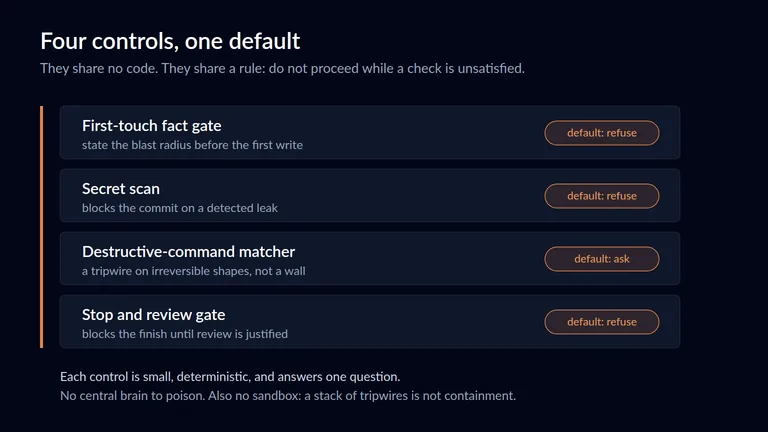
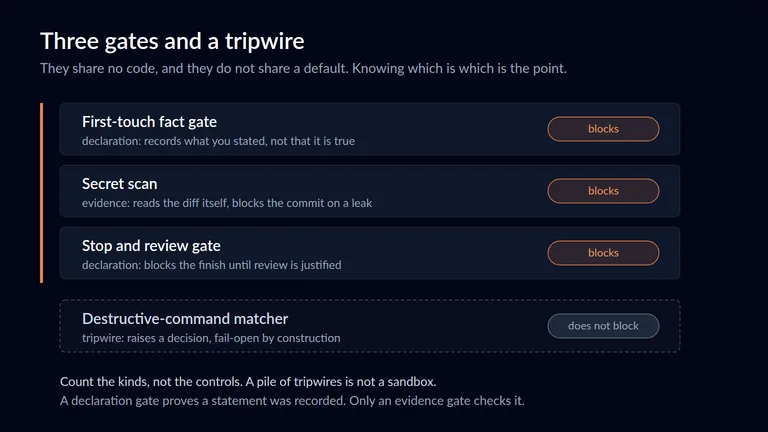
fix(guides): correct hook semantics, declaration gates, and canary scope
Second external review pass. Five findings, all valid, all verified against the canonical Claude Code hooks reference before changing anything.

Hook semantics. Previous text said only a PreToolUse hook can stop a call and that other exits fail open silently. Both wrong. A PreToolUse hook can deny two ways, exit code 2 or a clean exit carrying a structured permissionDecision of deny, and a PermissionRequest hook can deny as well. Other non-zero exits are non-blocking but NOT silent: the transcript carries a hook-error notice. Corrected, and the point sharpened, since a notice after the fact is still not a block. Now links code.claude.com/docs/en/hooks.

Declaration gates. 'No paragraph of justification changes the outcome' contradicted the opening, where the fact gate cleared precisely because a paragraph was written. Replaced with the accurate claim: the model cannot redefine the pass condition. Added the distinction this exposes, between a declaration gate that proves only that a statement was recorded and an evidence gate that independently validates it.

Stack classification. The matcher is fail-open by construction, so the claim that every control defaults to no was false. Reclassified as three required gates plus one advisory tripwire, in prose and in the fourth diagram, which now sets the tripwire apart visually.
[…]

diff --git a/constants.guides.generated.ts b/constants.guides.generated.ts
@@ -13,7 +13,7 @@ export const GUIDES: Guide[] = [
     "category": "Agent Engineering",
     "description": "The safety of an agent harness is not the list of things it can do. It is what the harness does by default when a required check cannot be satisfied. This guide builds the guardrails half of harness engineering that most write-ups name and skip: a fail-closed default, a trajectory model for when to refuse, and an honest account of what a command matcher can and cannot enforce.",
     "lead": "While I was writing this guide, my own harness refused me over and over. Not once because a command was dangerous, but because a required check had not been satisfied yet. None of those gates was a wall, and understanding why is the whole discipline.",
-    "body": "While I was writing this guide, my own harness kept refusing me.\n\nThe first refusal came when I tried to create a file. A gate intercepted the write and would not pass it until I had stated, on the record, what imported the file, what the blast radius was, what data it touched, and what the operator had actually asked for. I wrote those four facts. The retry went through. That happened on every new file the session touched, including the ones holding this guide's own research.\n\nA second gate refused to let the session end. I had pushed a branch and wanted to stop; the stop was blocked until I either ran the review pipeline or stated in writing why this change did not need it. A third, quieter one flagged that I had hidden both output streams on a command whose result I was branching on, which collapses \"the probe found nothing\" and \"the probe broke\" into the same answer.\n\nNot one of those is a wall. Every one is a speed bump that a deliberate, explicit action clears. That is the point, and it is where most guardrail writing goes wrong in both directions at once: it either promises a wall it cannot build, or it settles for a prompt the model can talk its way past.\n\n**Who this is for:** engineers building or operating an agent harness who have read the concept pieces, named the guardrails box on the diagram, and now need the guardrails box to actually hold.\n\n![Three capabilities converging inside one agent session: untrusted input, access to secrets or a production system, and a destructive or external action. When all three are present at once, the session needs supervision or a reliable validation step before a consequential action.](/assets/guides/fail-closed-harness/three-leg-refusal.webp \"The three-leg convergence: untrusted input, sensitive access, and a consequential action in one session.\")\n\n---\n\nCall it a fail-closed harness, and define it precisely, because the loose version of this idea is worse than useless:\n\n> A fail-closed harness refuses a consequential action when a required policy check or authorization cannot be evaluated or satisfied. A non-match in a destructive-command filter is not proof that the command is safe.\n\nThat second sentence is the one people skip. Hold onto it.\n\n\"Harness engineering\" is now its own discipline, and by mid-2026 it has owners. LangChain, [Mitchell Hashimoto](https://mitchellh.com/writing/my-ai-adoption-journey), Martin Fowler's team, and Lilian Weng have all staked out the term for the software wrapped around a model. The cleanest short definition comes from [LangChain's Vivek Trivedy](https://www.langchain.com/blog/the-anatomy-of-an-agent-harness):\n\n> A harness is every piece of code, configuration, and execution logic that isn't the model itself.\n\nMost of that writing races on capability: better tools, longer memory, smarter loops. The part almost everyone names and then skips is the guardrails. This guide is about that skipped part, and about one claim: the guardrails are not a feature you bolt on. They are a default you choose, once, and apply everywhere.\n\n## What does fail closed actually mean for a harness?\n\nOn 2026-07-23, three separate gates interrupted a single writing session, and not one of them was a wall. Each blocked by default, said exactly what it needed, and cleared once I supplied it. Fail closed names that default: when a required check cannot be satisfied, stop rather than proceed.\n\nThe distinction that carries the whole guide is prompt versus property. A permission prompt is a request. It asks the model, or a tired operator, to say yes, and a model fed untrusted content can be steered into saying yes and can steer you into it too, because the same context that poisoned the plan writes the rationale for the prompt. Telling an agent to \"only propose, never execute\" is a request of the same kind: a sentence in a system prompt, and a sentence is not an interlock.\n\nA property is enforced by something outside the model that the model cannot argue with. The write lands or it does not, and no paragraph of justification changes the outcome. Our companion guide on [building infrastructure with an agent you can trust](/guides/agent-built-infrastructure-you-can-trust) makes the build-time version of this case. This guide makes the runtime version, and the mechanism is the difference: not a better instruction, but a check that runs outside the model and decides for it.\n\n## When should the harness refuse?\n\nOn 2025-10-31, Meta drew the line as a rule: an agent session should satisfy at most two of three properties at once. The three are untrusted input, sensitive access, and consequential action, which is the shape of most real damage. Hold all three and you are one prompt injection from a bad outcome.\n\nThe discipline is to drop a leg before you act, or to require supervision when you cannot. Meta states [the three properties](https://ai.meta.com/blog/practical-ai-agent-security/) directly:\n\n> agents must satisfy no more than two of the following three properties within a session: [A] An agent can process untrustworthy inputs; [B] An agent can have access to sensitive systems or private data; [C] An agent can change state or communicate externally.\n\nTwo days later Simon Willison [called it](https://simonwillison.net/2025/Nov/2/new-prompt-injection-papers/) the best practical advice for building secure LLM-powered agent systems today. His own earlier framing, [the lethal trifecta](https://simonwillison.net/2025/Jun/16/the-lethal-trifecta/) from June 2025, names the same three ingredients:\n\n> The lethal trifecta of capabilities is: Access to your private data ... Exposure to untrusted content ... The ability to externally communicate in a way that could be used to steal your data\n\nThe two framings differ on one leg. Willison's trifecta draws its third capability narrowly, the ability to communicate data out; he says as much, that the trifecta \"only covers the risk of data exfiltration.\" Meta's leg (C) is already wider, \"change state or communicate externally,\" which on its face includes destruction with no exfiltration at all: a force-push that rewrites history, a `DROP TABLE`, a prune that deletes volumes. Nothing leaves the building. Something inside it is destroyed.\n\nTwo clarifications keep this from being read too simply. First, leg (B) is broad. A force-push against a repository that matters is already access to a sensitive system, so that example usually implicates (A), (B), and (C) together rather than being a clean two-leg case. (A) plus (C) is genuinely lower risk only when the target is disposable. Second, the rule does not say that any two of three is safe, and Willison pushed back on exactly that reading. Two legs means lower blast radius, not immunity. Three legs means you need supervision or a reliable validation step before the action, which is not always the same as refusing it outright.\n\n![The Rule of Two as three legs. Leg A is untrusted input, leg B is sensitive or production access, leg C is any consequential output, including destructive or irreversible state-change and not only external communication. Holding all three legs at once is the condition that demands supervision or validation before acting.](/assets/guides/fail-closed-harness/rule-of-two-extended.webp \"Meta's Rule of Two, with leg C read at its word: destructive state-change, not only exfiltration.\")\n\n## How do you make refusal a property and not a prompt?\n\nOn 2026-07-23 the gate that fired most often did something narrower than it sounds. It matched the shape of what I was about to do against a small rule set, before the action ran, and raised an explicit decision. It never judged whether the action was safe. It judged whether a rule matched, a different and much weaker question.\n\nThat distinction is not pedantry, it is the whole honest account. A matcher that finds no known destructive pattern has established exactly one thing: no known pattern matched. It has not established that the command is safe. So the right mental model is a tripwire, not a wall, and the right role is defense-in-depth: one cheap layer that catches the obvious cases loudly, sitting underneath real controls, never standing in for them.\n\nBe concrete about what slips past. It matches command text before execution, which makes it a pre-command filter and not a sandbox. Shell expansion, an alias, `eval`, a sourced wrapper script, a `git` alias, or the same binary reached by another path can all carry a destructive action past a string match. Treat that list as the canary set and fire each one at the gate on a schedule. Where an action must actually be prevented rather than discouraged, enforcement belongs at the execution boundary, in the layer that runs the command, or better, in removing the capability from the session at all.\n\nThe failure mode is the other half. A gate is fail-closed only if the gate breaking is itself a block. In Claude Code, only a [`PreToolUse` hook](https://docs.claude.com/en/docs/claude-code/hooks) can stop a call: exit code 2 blocks it and hands the message back to the model, while any other exit, including an unhandled crash, lets it through. A `PostToolUse` hook runs after the action and cannot undo it. So a gate that throws on an input it did not anticipate does not fail safe. It fails open, silently, on exactly the weird input most likely to be an attack. Write the gate so its own error path exits blocking, and test the error path, not just the happy one.\n\n![A decision flow for a destructive-command matcher. A command enters, the matcher checks it against known destructive shapes, an unmatched command continues to the normal controls, a matched command raises an explicit decision requiring a trusted authorization, and any internal error in the matcher itself exits on the blocking path rather than allowing the command.](/assets/guides/fail-closed-harness/gate-decision-flow.webp \"The matcher's decision flow. An unmatched command is not a safe command, it is an unmatched one.\")\n\nThen there is the override, and here I will be exact rather than flattering. What clears the block in my own setup today is an environment variable the operator sets. That is a weaker thing than it sounds: an environment variable is not authentication, it is not bound to the specific command, it is not single-use, and it leaves no audit trail. Those four properties are what an override should have, and naming the gap is more useful than implying it is closed. An override the model can set for itself is the permission prompt again in a different hat.\n\n## What happens when the gate itself dies?\n\nThe gate that fired repeatedly on 2026-07-23 is documented, in its own rules file, as fail-open by construction. That is not a flaw someone hid. It is a deliberate trade, chosen so normal work is never blocked, and it is the single most important sentence to read about any control you are relying on.\n\nA healthy-looking control and a silently dead one are indistinguishable from the outside, and that is a general trap. I made the build-time version of the case in the [infrastructure guide](/guides/agent-built-infrastructure-you-can-trust): a control that is \"armed and green\" is making a claim about its own status, not about whether it does its job. The runtime version is sharper, because the thing failing open is the safety layer itself. Green has two causes, and watching cannot tell them apart.\n\nYou tell them apart by firing the control. A canary is a known violation you send through on purpose, on a schedule, to confirm the gate still catches it. Armed-and-green proves nothing; fired-and-caught proves the gate still binds. It is the difference between installing a smoke detector and pressing its test button, and it is the single most skipped step in every safety layer I have built. A gate proven in June and quietly broken in July is worth exactly nothing in August.\n\n## Does fail-closed scale, and what does it cost?\n\nOn 2026-07-23 four different control types touched one session: a first-touch fact gate on file writes, a destructive-command matcher, a pre-commit secret scan, and a stop gate that refused to let the session end. They share no code and one rule: do not proceed while a required check is unsatisfied.\n\nThe principle composes precisely because each control is dumb on its own. There is no central brain to poison, only a stack of narrow interlocks that each answer one question and default to no. That also caps what the stack can promise: a pile of tripwires is not a sandbox, and calling it one is how teams end up surprised.\n\nFail-closed has a cost, and pretending otherwise is how you end up switching it off. A matcher keyed on command shapes will sometimes stop something harmless that merely looks dangerous: a chained one-liner with the word reset in a filename, a script whose name contains prune. False positives are real and annoying. The wrong response is to loosen the match until it stops firing, because a matcher that never fires on a false positive never fires on a true one either. The right response is to scope it to shapes that are actually irreversible and give it a fast, trusted way to proceed. Fail-closed on everything and people route around you. Fail-closed on the irreversible and they thank you.\n\nThere is a market reason this matters, not only a safety one. The labs are bundling their own harnesses, Claude Code and Codex ship with the model, and third-party harnesses like LangChain's Deep Agents and Pydantic AI's Harness are racing them on capability. [LangChain showed](https://www.langchain.com/blog/improving-deep-agents-with-harness-engineering) how much capability lives in the harness rather than the weights: tuning only the harness moved their coding agent 13.7 points, from 52.8 to 66.5 on Terminal Bench 2.0, with the model held fixed. [Boris Cherny](https://x.com/bcherny/status/2007179832300581177), who built Claude Code, makes the capability case in one line, that giving an agent a way to verify its work \"will 2-3x the quality of the final result.\" The safety case is the same move pointed the other way: check before a consequential action, and refuse while the check is unsatisfied. I have not seen that lane claimed yet.\n\n![Four control types stacked under one default: a first-touch fact gate, a secret scan, a destructive-command matcher, and a review gate. Each is small and deterministic, each answers one question, and each declines to proceed while a required check is unsatisfied.](/assets/guides/fail-closed-harness/layered-enforcement-stack.webp \"Four narrow controls composing under a single fail-closed default.\")\n\n## What are you actually shipping when you ship a harness?\n\nThe capability is what gets demoed. The default is what saves you at 2 a.m. when a poisoned page has talked your agent into something it should never do. Capability is the model plus the tools. Safety is the harness deciding, before the fact and without the model's permission, what happens when a required check cannot be satisfied.\n\nFail closed. Prove the control fires by firing it. Say plainly which layers are tripwires and which actually enforce, because the gap between those two is where every unpleasant surprise lives. And pay the friction on purpose, on the irreversible actions and nowhere else.\n\nThree companion guides go deeper on the pieces: [why agent-written code needs layered review](/guides/why-agent-code-needs-layered-review), the [governed double-send-safe delivery pipeline](/guides/governed-double-send-safe-delivery), and a [self-correcting verifier that learns to abstain](/guides/verifier-abstention-not-refutation). For the wider map of what a harness even is, Paul Iusztin's [overview of the parts of a harness](https://read.technically.dev/p/whats-harness-engineering) is a good conceptual starting point; this guide is the guardrails part of that map, built out into something that holds. The rest of the map, the tools, the memory, the loop, is where the demos live. The guardrails are where the trust does."
+    "body": "While I was writing this guide, my own harness kept refusing me.\n\nThe first refusal came when I tried to create a file. A gate intercepted the write and would not pass it until I had stated, on the record, what imported the file, what the blast radius was, what data it touched, and what the operator had actually asked for. I wrote those four facts. The retry went through. That happened on every new file the session touched, including the ones holding this guide's own research.\n\nA second gate refused to let the session end. I had pushed a branch and wanted to stop; the stop was blocked until I either ran the review pipeline or stated in writing why this change did not need it. A third, quieter one flagged that I had hidden both output streams on a command whose result I was branching on, which collapses \"the probe found nothing\" and \"the probe broke\" into the same answer.\n\nNot one of those is a wall. Every one is a speed bump that a deliberate, explicit action clears. That is the point, and it is where most guardrail writing goes wrong in both directions at once: it either promises a wall it cannot build, or it settles for a prompt the model can talk its way past.\n\n**Who this is for:** engineers building or operating an agent harness who have read the concept pieces, named the guardrails box on the diagram, and now need the guardrails box to actually hold.\n\n![Three capabilities converging inside one agent session: untrusted input, access to secrets or a production system, and a destructive or external action. When all three are present at once, the session needs supervision or a reliable validation step before a consequential action.](/assets/guides/fail-closed-harness/three-leg-refusal.webp \"The three-leg convergence: untrusted input, sensitive access, and a consequential action in one session.\")\n\n---\n\nCall it a fail-closed harness, and define it precisely, because the loose version of this idea is worse than useless:\n\n> A fail-closed harness refuses a consequential action when a required policy check or authorization cannot be evaluated or satisfied. A non-match in a destructive-command filter is not proof that the command is safe.\n\nThat second sentence is the one people skip. Hold onto it.\n\n\"Harness engineering\" is now its own discipline, and by mid-2026 it has owners. LangChain, [Mitchell Hashimoto](https://mitchellh.com/writing/my-ai-adoption-journey), Martin Fowler's team, and Lilian Weng have all staked out the term for the software wrapped around a model. The cleanest short definition comes from [LangChain's Vivek Trivedy](https://www.langchain.com/blog/the-anatomy-of-an-agent-harness):\n\n> A harness is every piece of code, configuration, and execution logic that isn't the model itself.\n\nMost of that writing races on capability: better tools, longer memory, smarter loops. The part almost everyone names and then skips is the guardrails. This guide is about that skipped part, and about one claim: the guardrails are not a feature you bolt on. They are a default you choose, once, and apply everywhere.\n\n## What does fail closed actually mean for a harness?\n\nOn 2026-07-23, three separate gates interrupted a single writing session, and not one of them was a wall. Each blocked by default, said exactly what it needed, and cleared once I supplied it. Fail closed names that default: when a required check cannot be satisfied, stop rather than proceed.\n\nThe distinction that carries the whole guide is prompt versus property. A permission prompt is a request. It asks the model, or a tired operator, to say yes, and a model fed untrusted content can be steered into saying yes and can steer you into it too, because the same context that poisoned the plan writes the rationale for the prompt. Telling an agent to \"only propose, never execute\" is a request of the same kind: a sentence in a system prompt, and a sentence is not an interlock.\n\nA property is enforced by something outside the model, and the model cannot redefine what counts as passing. That claim is narrower than it first sounds, and the opening shows why. The fact gate did clear after I wrote a paragraph, so a paragraph plainly changed the outcome. What the paragraph could not do was change the condition. The gate decided what had to be stated and when, and it recorded that a statement was made. It never verified that what I wrote was true.\n\nThat distinction splits guardrails into two kinds that are easy to confuse. A declaration gate forces something onto the record and proves only that it was recorded. An evidence gate independently validates the claim: a secret scan reads the diff itself, a test suite runs the code. Declaration gates buy deliberation and an audit trail, which is worth real money. They do not buy truth, and treating one as the other is its own failure mode. Our companion guide on [building infrastructure with an agent you can trust](/guides/agent-built-infrastructure-you-can-trust) makes the build-time version of this case; this guide makes the runtime version.\n\n## When should the harness refuse?\n\nOn 2025-10-31, Meta drew the line as a rule: an agent session should satisfy at most two of three properties at once. The three are untrusted input, sensitive access, and consequential action, which is the shape of most real damage. Hold all three and you are one prompt injection from a bad outcome.\n\nThe discipline is to drop a leg before you act, or to require supervision when you cannot. Meta states [the three properties](https://ai.meta.com/blog/practical-ai-agent-security/) directly:\n\n> agents must satisfy no more than two of the following three properties within a session: [A] An agent can process untrustworthy inputs; [B] An agent can have access to sensitive systems or private data; [C] An agent can change state or communicate externally.\n\nTwo days later Simon Willison [called it](https://simonwillison.net/2025/Nov/2/new-prompt-injection-papers/) the best practical advice for building secure LLM-powered agent systems today. His own earlier framing, [the lethal trifecta](https://simonwillison.net/2025/Jun/16/the-lethal-trifecta/) from June 2025, names the same three ingredients:\n\n> The lethal trifecta of capabilities is: Access to your private data ... Exposure to untrusted content ... The ability to externally communicate in a way that could be used to steal your data\n\nThe two framings differ on one leg. Willison's trifecta draws its third capability narrowly, the ability to communicate data out; he says as much, that the trifecta \"only covers the risk of data exfiltration.\" Meta's leg (C) is already wider, \"change state or communicate externally,\" which on its face includes destruction with no exfiltration at all: a force-push that rewrites history, a `DROP TABLE`, a prune that deletes volumes. Nothing leaves the building. Something inside it is destroyed.\n\nTwo clarifications keep this from being read too simply. First, leg (B) is broad. A force-push against a repository that matters is already access to a sensitive system, so that example usually implicates (A), (B), and (C) together rather than being a clean two-leg case. (A) plus (C) is genuinely lower risk only when the target is disposable. Second, the rule does not say that any two of three is safe, and Willison pushed back on exactly that reading. Two legs means lower blast radius, not immunity. Three legs means you need supervision or a reliable validation step before the action, which is not always the same as refusing it outright.\n\n![The Rule of Two as three legs. Leg A is untrusted input, leg B is sensitive or production access, leg C is any consequential output, including destructive or irreversible state-change and not only external communication. Holding all three legs at once is the condition that demands supervision or validation before acting.](/assets/guides/fail-closed-harness/rule-of-two-extended.webp \"Meta's Rule of Two, with leg C read at its word: destructive state-change, not only exfiltration.\")\n\n## How do you make refusal a property and not a prompt?\n\nOn 2026-07-23 the gate that fired most often did something narrower than it sounds. It matched the shape of what I was about to do against a small rule set, before the action ran, and raised an explicit decision. It never judged whether the action was safe. It judged whether a rule matched, a different and much weaker question.\n\nThat distinction is not pedantry, it is the whole honest account. A matcher that finds no known destructive pattern has established exactly one thing: no known pattern matched. It has not established that the command is safe. So the right mental model is a tripwire, not a wall, and the right role is defense-in-depth: one cheap layer that catches the obvious cases loudly, sitting underneath real controls, never standing in for them.\n\nBe concrete about what slips past. It matches command text before execution, which makes it a pre-command filter and not a sandbox. Shell expansion, an alias, `eval`, a sourced wrapper script, a `git` alias, or the same binary reached by another path can all carry a destructive action past a string match. Treat that list as the canary set and fire each one at the gate on a schedule. Where an action must actually be prevented rather than discouraged, enforcement belongs at the execution boundary, in the layer that runs the command, or better, in removing the capability from the session at all.\n\nThe failure mode is the other half. A gate is fail-closed only if the gate breaking is itself a block. In [Claude Code](https://code.claude.com/docs/en/hooks), a `PreToolUse` hook can stop a call two ways: exit code 2, which blocks and feeds its stderr back to the model, or a clean exit carrying a structured `permissionDecision` of `deny`. A `PermissionRequest` hook can deny as well. A `PostToolUse` hook cannot stop anything, because the tool has already run.\n\nEvery other non-zero exit, including an unhandled crash, is treated as a non-blocking error and the action proceeds. That failure is not silent; the transcript carries a hook-error notice. But a notice after the fact is not a block, and it arrives when the command has already run. So a gate that throws on an input it did not anticipate fails open on exactly the weird input most likely to be an attack. Write the gate so its own error path exits blocking, and test that path, not just the happy one.\n\n![A decision flow for a destructive-command matcher. A command enters, the matcher checks it against known destructive shapes, an unmatched command continues to the normal controls, a matched command raises an explicit decision requiring a trusted authorization, and any internal error in the matcher itself exits on the blocking path rather than allowing the command.](/assets/guides/fail-closed-harness/gate-decision-flow.webp \"The matcher's decision flow. An unmatched command is not a safe command, it is an unmatched one.\")\n\nThen there is the override, and here I will be exact rather than flattering. What clears the block in my own setup today is an environment variable the operator sets. That is a weaker thing than it sounds: an environment variable is not authentication, it is not bound to the specific command, it is not single-use, and it leaves no audit trail. Those four properties are what an override should have, and naming the gap is more useful than implying it is closed. An override the model can set for itself is the permission prompt again in a different hat.\n\n## What happens when the gate itself dies?\n\nThe gate that fired repeatedly on 2026-07-23 is documented, in its own rules file, as fail-open by construction. That is not a flaw someone hid. It is a deliberate trade, chosen so normal work is never blocked, and it is the single most important sentence to read about any control you are relying on.\n\nA healthy-looking control and a silently dead one are indistinguishable from the outside, and that is a general trap. I made the build-time version of the case in the [infrastructure guide](/guides/agent-built-infrastructure-you-can-trust): a control that is \"armed and green\" is making a claim about its own status, not about whether it does its job. The runtime version is sharper, because the thing failing open is the safety layer itself. Green has two causes, and watching cannot tell them apart.\n\nYou tell them apart by firing the control. A canary is a known violation you send through on purpose, on a schedule, to confirm the gate still catches it. It is the difference between installing a smoke detector and pressing its test button, and it is the single most skipped step in every safety layer I have built.\n\nBe precise about what a fired canary buys, though, because it is less than the phrase suggests. Armed-and-green proves nothing. Fired-and-caught proves that one path bound, at one moment. It says nothing about the path you did not exercise. So rotate the canaries: send a plainly known-bad command, then send the same intent dressed up in an alias or an `eval`, then force the control's own error path. Those three fail independently, and only the first is usually tested. A gate proven in June and quietly broken in July is worth exactly nothing in August.\n\n## Does fail-closed scale, and what does it cost?\n\nOn 2026-07-23 four control types touched one session: a first-touch fact gate, a pre-commit secret scan, a stop gate that blocked the session from ending, and a destructive-command matcher. Three of them hold until a check is satisfied. The fourth is fail-open by construction, and conflating the two is how a stack gets oversold.\n\nThe principle composes precisely because each control is dumb on its own. There is no central brain to poison, only narrow interlocks that each answer one question. But the stack is not uniform, and the honest inventory matters more than the count: three required gates that hold, plus one advisory tripwire that raises a decision and can be cleared. A pile of tripwires is not a sandbox, and calling it one is how teams end up surprised.\n\nFail-closed has a cost, and pretending otherwise is how you end up switching it off. A matcher keyed on command shapes will sometimes stop something harmless that merely looks dangerous: a chained one-liner with the word reset in a filename, a script whose name contains prune. False positives are real and annoying. Narrowing the pattern is often exactly right, and it can drop a specific false positive while keeping every true one, so the crude warning that tuning always costs coverage is wrong. What makes tuning safe is not judgment, it is a regression set: keep a fixture of commands that must still trip the matcher, and run it after every change. Tuning without that fixture is how a matcher quietly drifts toward matching nothing. Scope it to shapes that are actually irreversible, and give it a fast, trusted way to proceed. Fail-closed on everything and people route around you. Fail-closed on the irreversible and they thank you.\n\nThere is a market reason this matters, not only a safety one. The labs are bundling their own harnesses, Claude Code and Codex ship with the model, and third-party harnesses like LangChain's Deep Agents and Pydantic AI's Harness are racing them on capability. [LangChain showed](https://www.langchain.com/blog/improving-deep-agents-with-harness-engineering) how much capability lives in the harness rather than the weights: tuning only the harness moved their coding agent 13.7 points, from 52.8 to 66.5 on Terminal Bench 2.0, with the model held fixed. [Boris Cherny](https://x.com/bcherny/status/2007179832300581177), who built Claude Code, makes the capability case in one line, that giving an agent a way to verify its work \"will 2-3x the quality of the final result.\" The safety case is the same move pointed the other way: check before a consequential action, and refuse while the check is unsatisfied. I have not seen that lane claimed yet.\n\n![Four control types, sorted by kind rather than counted. Three required gates that block until a check is satisfied: a first-touch fact gate and a stop-and-review gate, both declaration gates that record a statement without verifying it, and a secret scan, an evidence gate that reads the diff itself. Set apart below them is a destructive-command matcher, a tripwire that raises a decision and is fail-open by construction.](/assets/guides/fail-closed-harness/layered-enforcement-stack.webp \"Three gates and a tripwire. Count the kinds, not the controls.\")\n\n## What are you actually shipping when you ship a harness?\n\nThe capability is what gets demoed. The default is what saves you at 2 a.m. when a poisoned page has talked your agent into something it should never do. Capability is the model plus the tools. Safety is the harness deciding, before the fact and without the model's permission, what happens when a required check cannot be satisfied.\n\nFail closed. Prove the control fires by firing it. Say plainly which layers are tripwires and which actually enforce, because the gap between those two is where every unpleasant surprise lives. And pay the friction on purpose, on the irreversible actions and nowhere else.\n\nThree companion guides go deeper on the pieces: [why agent-written code needs layered review](/guides/why-agent-code-needs-layered-review), the [governed double-send-safe delivery pipeline](/guides/governed-double-send-safe-delivery), and a [self-correcting verifier that learns to abstain](/guides/verifier-abstention-not-refutation). For the wider map of what a harness even is, Paul Iusztin's [overview of the parts of a harness](https://read.technically.dev/p/whats-harness-engineering) is a good conceptual starting point; this guide is the guardrails part of that map, built out into something that holds. The rest of the map, the tools, the memory, the loop, is where the demos live. The guardrails are where the trust does."
   },
   {
     "title": "The Recon Refuted the Task: Building Infrastructure With an Agent You Can Trust",

diff --git a/content/guides/the-fail-closed-harness.md b/content/guides/the-fail-closed-harness.md
@@ -39,7 +39,9 @@ On 2026-07-23, three separate gates interrupted a single writing session, and no
 
 The distinction that carries the whole guide is prompt versus property. A permission prompt is a request. It asks the model, or a tired operator, to say yes, and a model fed untrusted content can be steered into saying yes and can steer you into it too, because the same context that poisoned the plan writes the rationale for the prompt. Telling an agent to "only propose, never execute" is a request of the same kind: a sentence in a system prompt, and a sentence is not an interlock.
 
-A property is enforced by something outside the model that the model cannot argue with. The write lands or it does not, and no paragraph of justification changes the outcome. Our companion guide on [building infrastructure with an agent you can trust](/guides/agent-built-infrastructure-you-can-trust) makes the build-time version of this case. This guide makes the runtime version, and the mechanism is the difference: not a better instruction, but a check that runs outside the model and decides for it.
+A property is enforced by something outside the model, and the model cannot redefine what counts as passing. That claim is narrower than it first sounds, and the opening shows why. The fact gate did clear after I wrote a paragraph, so a paragraph plainly changed the outcome. What the paragraph could not do was change the condition. The gate decided what had to be stated and when, and it recorded that a statement was made. It never verified that what I wrote was true.
+
+That distinction splits guardrails into two kinds that are easy to confuse. A declaration gate forces something onto the record and proves only that it was recorded. An evidence gate independently validates the claim: a secret scan reads the diff itself, a test suite runs the code. Declaration gates buy deliberation and an audit trail, which is worth real money. They do not buy truth, and treating one as the other is its own failure mode. Our companion guide on [building infrastructure with an agent you can trust](/guides/agent-built-infrastructure-you-can-trust) makes the build-time version of this case; this guide makes the runtime version.
 
 ## When should the harness refuse?
 
@@ -67,7 +69,9 @@ That distinction is not pedantry, it is the whole honest account. A matcher that
 
 Be concrete about what slips past. It matches command text before execution, which makes it a pre-command filter and not a sandbox. Shell expansion, an alias, `eval`, a sourced wrapper script, a `git` alias, or the same binary reached by another path can all carry a destructive action past a string match. Treat that list as the canary set and fire each one at the gate on a schedule. Where an action must actually be prevented rather than discouraged, enforcement belongs at the execution boundary, in the layer that runs the command, or better, in removing the capability from the session at all.
 
-The failure mode is the other half. A gate is fail-closed only if the gate breaking is itself a block. In Claude Code, only a [`PreToolUse` hook](https://docs.claude.com/en/docs/claude-code/hooks) can stop a call: exit code 2 blocks it and hands the message back to the model, while any other exit, including an unhandled crash, lets it through. A `PostToolUse` hook runs after the action and cannot undo it. So a gate that throws on an input it did not anticipate does not fail safe. It fails open, silently, on exactly the weird input most likely to be an attack. Write the gate so its own error path exits blocking, and test the error path, not just the happy one.
+The failure mode is the other half. A gate is fail-closed only if the gate breaking is itself a block. In [Claude Code](https://code.claude.com/docs/en/hooks), a `PreToolUse` hook can stop a call two ways: exit code 2, which blocks and feeds its stderr back to the model, or a clean exit carrying a structured `permissionDecision` of `deny`. A `PermissionRequest` hook can deny as well. A `PostToolUse` hook cannot stop anything, because the tool has already run.
+
+Every other non-zero exit, including an unhandled crash, is treated as a non-blocking error and the action proceeds. That failure is not silent; the transcript carries a hook-error notice. But a notice after the fact is not a block, and it arrives when the command has already run. So a gate that throws on an input it did not anticipate fails open on exactly the weird input most likely to be an attack. Write the gate so its own error path exits blocking, and test that path, not just the happy one.
 
 ![A decision flow for a destructive-command matcher. A command enters, the matcher checks it against known destructive shapes, an unmatched command continues to the normal controls, a matched command raises an explicit decision requiring a trusted authorization, and any internal error in the matcher itself exits on the blocking path rather than allowing the command.](/assets/guides/fail-closed-harness/gate-decision-flow.webp "The matcher's decision flow. An unmatched command is not a safe command, it is an unmatched one.")
 
@@ -79,19 +83,21 @@ The gate that fired repeatedly on 2026-07-23 is documented, in its own rules fil
 
 A healthy-looking control and a silently dead one are indistinguishable from the outside, and that is a general trap. I made the build-time version of the case in the [infrastructure guide](/guides/agent-built-infrastructure-you-can-trust): a control that is "armed and green" is making a claim about its own status, not about whether it does its job. The runtime version is sharper, because the thing failing open is the safety layer itself. Green has two causes, and watching cannot tell them apart.
 
-You tell them apart by firing the control. A canary is a known violation you send through on purpose, on a schedule, to confirm the gate still catches it. Armed-and-green proves nothing; fired-and-caught proves the gate still binds. It is the difference between installing a smoke detector and pressing its test button, and it is the single most skipped step in every safety layer I have built. A gate proven in June and quietly broken in July is worth exactly nothing in August.
+You tell them apart by firing the control. A canary is a known violation you send through on purpose, on a schedule, to confirm the gate still catches it. It is the difference between installing a smoke detector and pressing its test button, and it is the single most skipped step in every safety layer I have built.
+
+Be precise about what a fired canary buys, though, because it is less than the phrase suggests. Armed-and-green proves nothing. Fired-and-caught proves that one path bound, at one moment. It says nothing about the path you did not exercise. So rotate the canaries: send a plainly known-bad command, then send the same intent dressed up in an alias or an `eval`, then force the control's own error path. Those three fail independently, and only the first is usually tested. A gate proven in June and quietly broken in July is worth exactly nothing in August.
 
 ## Does fail-closed scale, and what does it cost?
 
-On 2026-07-23 four different control types touched one session: a first-touch fact gate on file writes, a destructive-command matcher, a pre-commit secret scan, and a stop gate that refused to let the session end. They share no code and one rule: do not proceed while a required check is unsatisfied.
+On 2026-07-23 four control types touched one session: a first-touch fact gate, a pre-commit secret scan, a stop gate that blocked the session from ending, and a destructive-command matcher. Three of them hold until a check is satisfied. The fourth is fail-open by construction, and conflating the two is how a stack gets oversold.
 
-The principle composes precisely because each control is dumb on its own. There is no central brain to poison, only a stack of narrow interlocks that each answer one question and default to no. That also caps what the stack can promise: a pile of tripwires is not a sandbox, and calling it one is how teams end up surprised.
+The principle composes precisely because each control is dumb on its own. There is no central brain to poison, only narrow interlocks that each answer one question. But the stack is not uniform, and the honest inventory matters more than the count: three required gates that hold, plus one advisory tripwire that raises a decision and can be cleared. A pile of tripwires is not a sandbox, and calling it one is how teams end up surprised.
 
-Fail-closed has a cost, and pretending otherwise is how you end up switching it off. A matcher keyed on command shapes will sometimes stop something harmless that merely looks dangerous: a chained one-liner with the word reset in a filename, a script whose name contains prune. False positives are real and annoying. The wrong response is to loosen the match until it stops firing, because a matcher that never fires on a false positive never fires on a true one either. The right response is to scope it to shapes that are actually irreversible and give it a fast, trusted way to proceed. Fail-closed on everything and people route around you. Fail-closed on the irreversible and they thank you.
+Fail-closed has a cost, and pretending otherwise is how you end up switching it off. A matcher keyed on command shapes will sometimes stop something harmless that merely looks dangerous: a chained one-liner with the word reset in a filename, a script whose name contains prune. False positives are real and annoying. Narrowing the pattern is often exactly right, and it can drop a specific false positive while keeping every true one, so the crude warning that tuning always costs coverage is wrong. What makes tuning safe is not judgment, it is a regression set: keep a fixture of commands that must still trip the matcher, and run it after every change. Tuning without that fixture is how a matcher quietly drifts toward matching nothing. Scope it to shapes that are actually irreversible, and give it a fast, trusted way to proceed. Fail-closed on everything and people route around you. Fail-closed on the irreversible and they thank you.
 
 There is a market reason this matters, not only a safety one. The labs are bundling their own harnesses, Claude Code and Codex ship with the model, and third-party harnesses like LangChain's Deep Agents and Pydantic AI's Harness are racing them on capability. [LangChain showed](https://www.langchain.com/blog/improving-deep-agents-with-harness-engineering) how much capability lives in the harness rather than the weights: tuning only the harness moved their coding agent 13.7 points, from 52.8 to 66.5 on Terminal Bench 2.0, with the model held fixed. [Boris Cherny](https://x.com/bcherny/status/2007179832300581177), who built Claude Code, makes the capability case in one line, that giving an agent a way to verify its work "will 2-3x the quality of the final result." The safety case is the same move pointed the other way: check before a consequential action, and refuse while the check is unsatisfied. I have not seen that lane claimed yet.
 
-![Four control types stacked under one default: a first-touch fact gate, a secret scan, a destructive-command matcher, and a review gate. Each is small and deterministic, each answers one question, and each declines to proceed while a required check is unsatisfied.](/assets/guides/fail-closed-harness/layered-enforcement-stack.webp "Four narrow controls composing under a single fail-closed default.")
+![Four control types, sorted by kind rather than counted. Three required gates that block until a check is satisfied: a first-touch fact gate and a stop-and-review gate, both declaration gates that record a statement without verifying it, and a secret scan, an evidence gate that reads the diff itself. Set apart below them is a destructive-command matcher, a tripwire that raises a decision and is fail-open by construction.](/assets/guides/fail-closed-harness/layered-enforcement-stack.webp "Three gates and a tripwire. Count the kinds, not the controls.")
 
 ## What are you actually shipping when you ship a harness?
 
